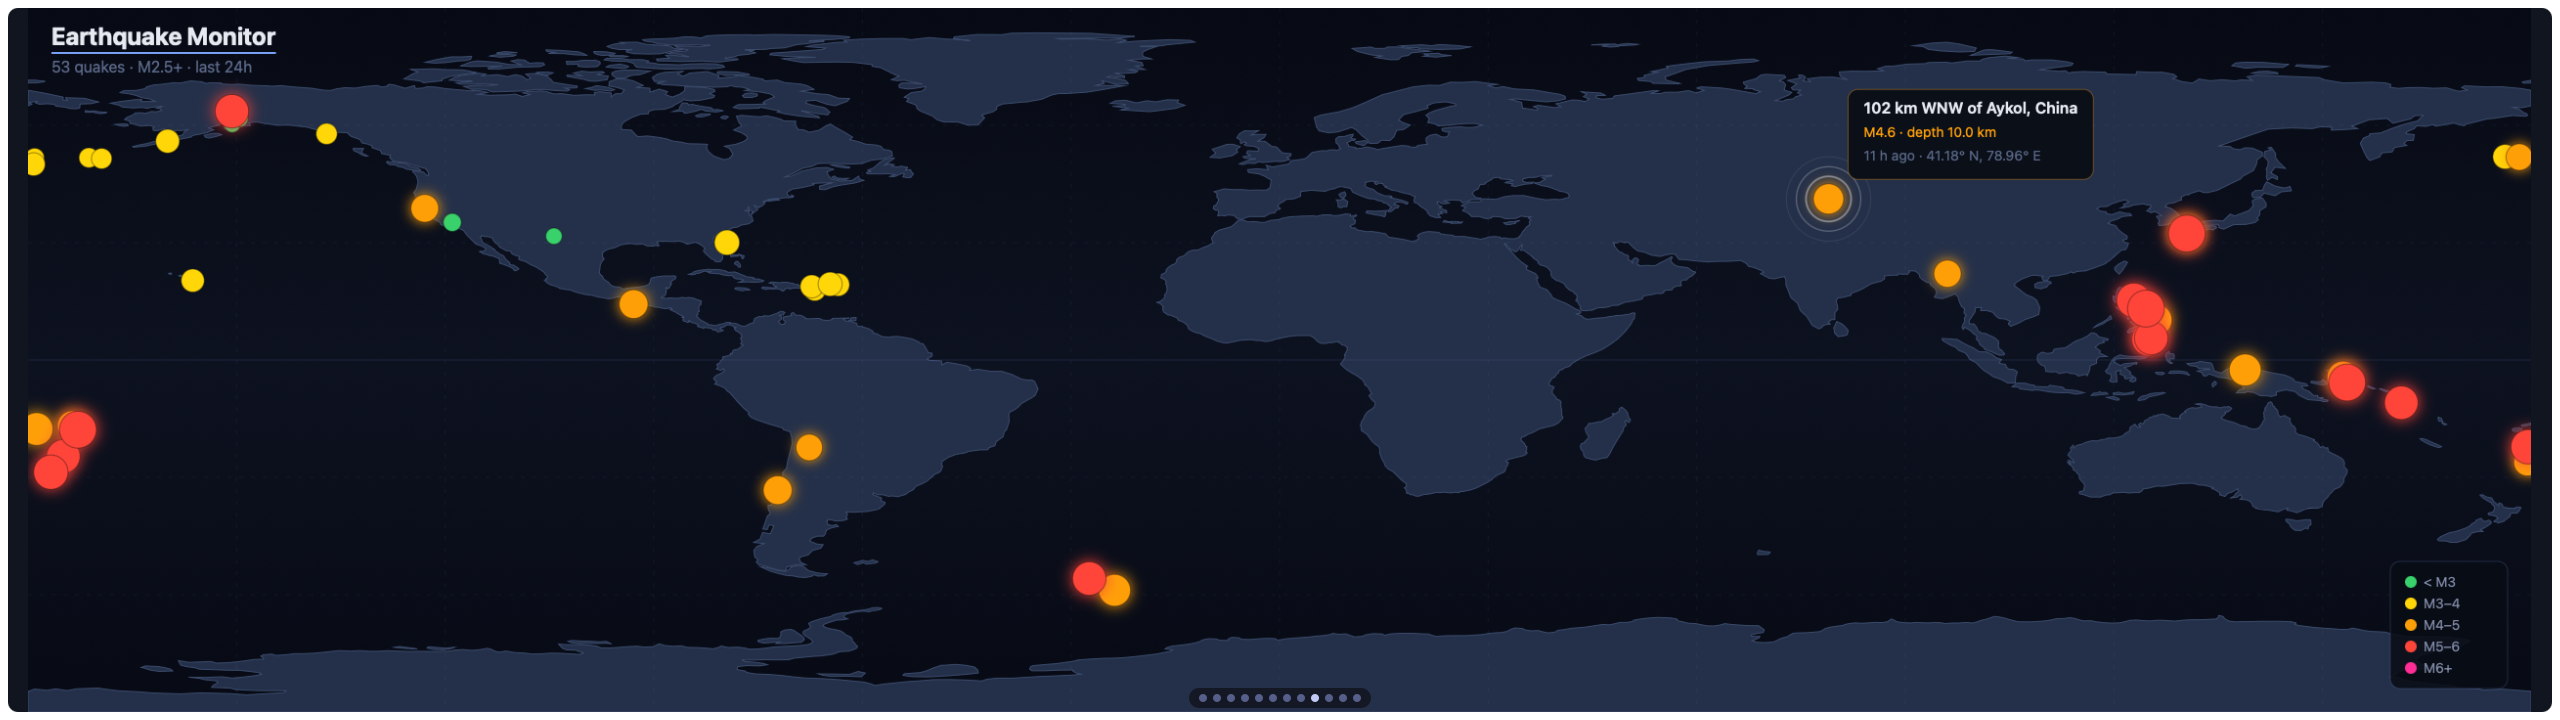
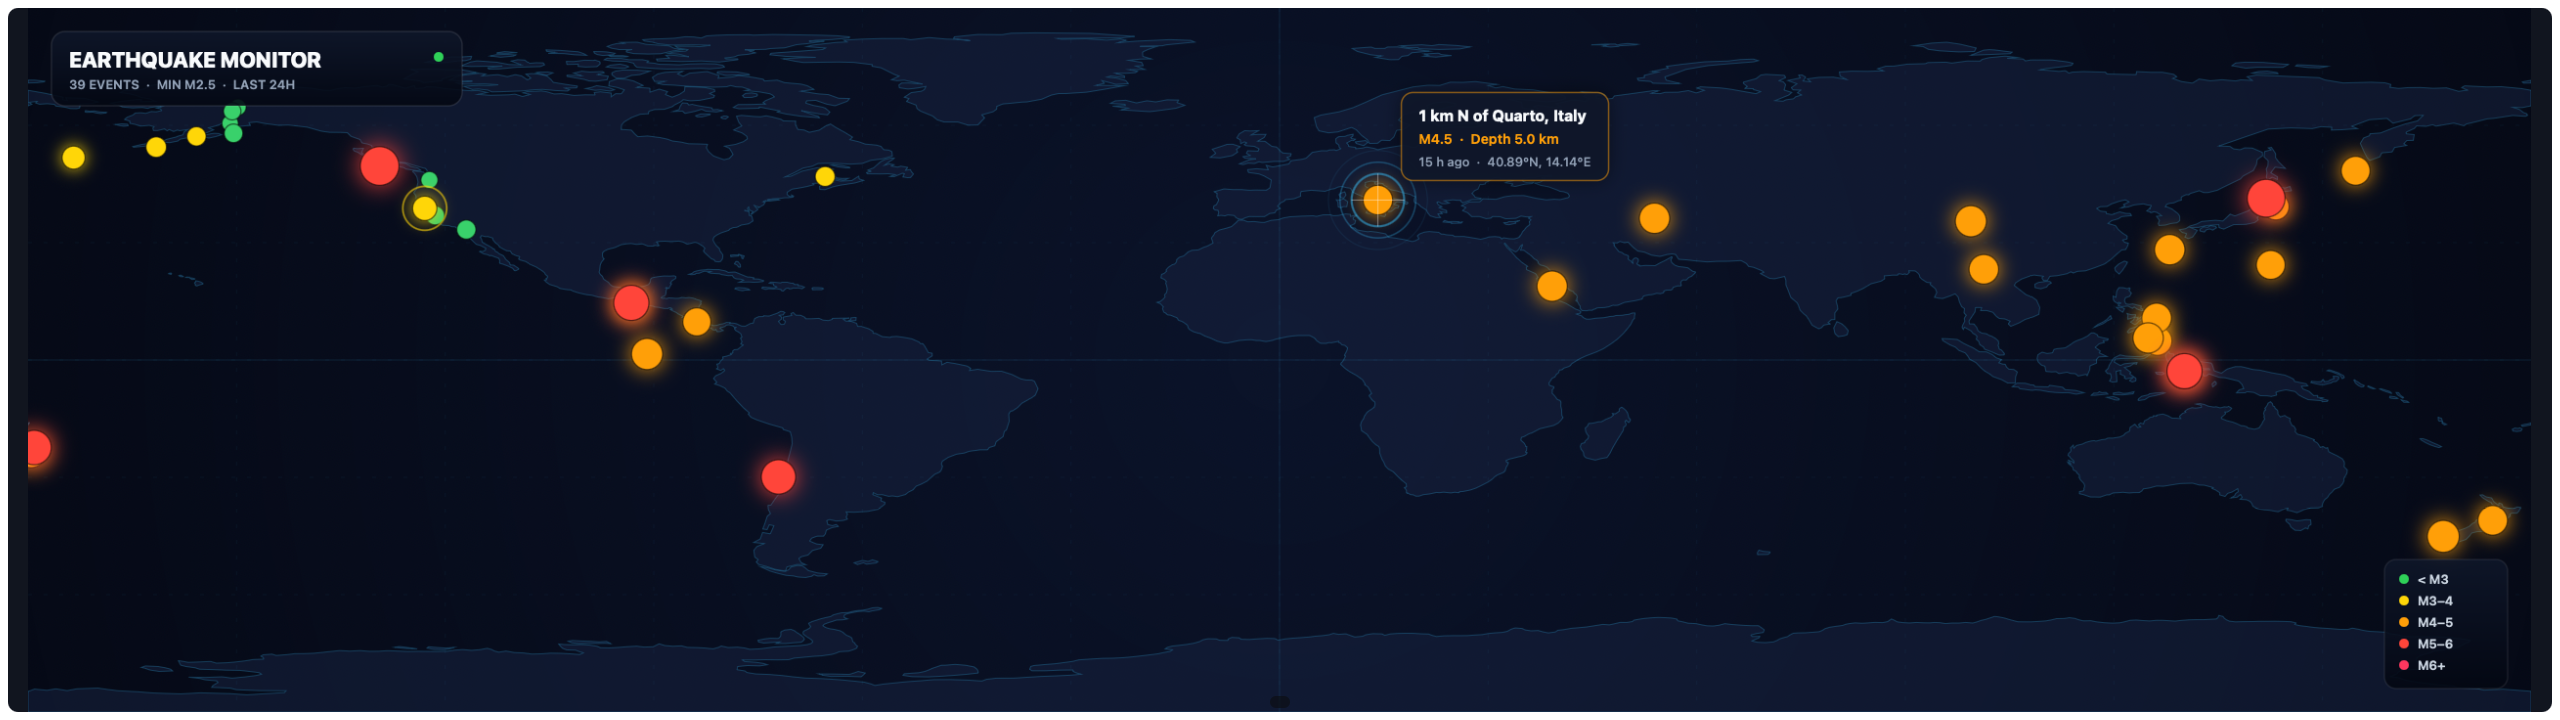
feat: glassmorphism visual refresh for Earthquake Monitor
Radial-gradient ocean, glass-panel title/legend boxes, glow + pulse
on large/recent quakes, radar-ring + crosshair overlay and upgraded
info panel on tap. quakes.js/land.js untouched.

diff --git a/com.vardek.earthquake/index.html b/com.vardek.earthquake/index.html
@@ -3,8 +3,14 @@
 <head>
 <meta charset="utf-8">
 <style>
-  html, body { margin: 0; height: 100%; overflow: hidden; background: transparent; }
-  #map { display: block; width: 100vw; height: 100vh; }
+  html, body {
+    margin: 0;
+    height: 100%;
+    overflow: hidden;
+    background: #030712;
+    font-family: -apple-system, BlinkMacSystemFont, 'SF Pro Display', 'Segoe UI', Roboto, sans-serif;
+  }
+  #map { display: block; width: 100vw; height: 100vh; cursor: crosshair; }
 </style>
 </head>
 <body>
@@ -26,27 +32,45 @@
   let selected = null;
 
   const LEGEND_BANDS = [
-    { label: "< M3", color: "#3ad16b" },
+    { label: "< M3", color: "#30d158" },
     { label: "M3–4", color: "#ffd60a" },
     { label: "M4–5", color: "#ff9f0a" },
     { label: "M5–6", color: "#ff453a" },
-    { label: "M6+",  color: "#ff2d95" },
+    { label: "M6+",  color: "#ff375f" },
   ];
 
+  function hexToRgb(hex) {
+    const n = parseInt(hex.slice(1), 16);
+    return ((n >> 16) & 255) + "," + ((n >> 8) & 255) + "," + (n & 255);
+  }
+
+  function roundRect(x, y, w, h, r) {
+    const radius = Math.min(r, w / 2, h / 2);
+    ctx.beginPath();
+    ctx.moveTo(x + radius, y);
+    ctx.arcTo(x + w, y, x + w, y + h, radius);
+    ctx.arcTo(x + w, y + h, x, y + h, radius);
+    ctx.arcTo(x, y + h, x, y, radius);
+    ctx.arcTo(x, y, x + w, y, radius);
+    ctx.closePath();
+  }
+
   function drawOcean() {
-    const grad = ctx.createLinearGradient(0, 0, 0, H);
-    grad.addColorStop(0, "#070a14");
-    grad.addColorStop(0.5, "#0d1220");
-    grad.addColorStop(1, "#070a14");
+    const grad = ctx.createRadialGradient(W / 2, H / 2, 50, W / 2, H / 2, W / 1.2);
+    grad.addColorStop(0, "#0b1329");
+    grad.addColorStop(0.6, "#060a17");
+    grad.addColorStop(1, "#02040a");
     ctx.fillStyle = grad;
     ctx.fillRect(0, 0, W, H);
   }
 
   function drawLand() {
     if (!cfg.showLand || !Array.isArray(globalThis.LAND)) return;
-    ctx.fillStyle = "#243049";
-    ctx.strokeStyle = "#3a4a6b";
+
+    ctx.fillStyle = "rgba(22, 33, 62, 0.55)";
+    ctx.strokeStyle = "rgba(56, 189, 248, 0.25)";
     ctx.lineWidth = 1;
+
     for (const ring of globalThis.LAND) {
       ctx.beginPath();
       ring.forEach(([lon, lat], i) => {
@@ -59,17 +83,12 @@
     }
   }
 
-  function hexToRgb(hex) {
-    const n = parseInt(hex.slice(1), 16);
-    return (n >> 16) + "," + ((n >> 8) & 255) + "," + (n & 255);
-  }
-
   function drawGraticule() {
-    ctx.strokeStyle = "rgba(122,162,247,0.07)";
+    ctx.strokeStyle = "rgba(56, 189, 248, 0.05)";
     ctx.lineWidth = 1;
-    ctx.setLineDash([4, 8]);
+    ctx.setLineDash([4, 12]);
+
     for (let lat = -60; lat <= 60; lat += 30) {
-      if (lat === 0) continue;
       const y = (90 - lat) / 180 * H;
       ctx.beginPath(); ctx.moveTo(0, y); ctx.lineTo(W, y); ctx.stroke();
     }
@@ -78,8 +97,11 @@
       ctx.beginPath(); ctx.moveTo(x, 0); ctx.lineTo(x, H); ctx.stroke();
     }
     ctx.setLineDash([]);
-    ctx.strokeStyle = "rgba(122,162,247,0.12)";
+
+    // Prime meridian & Equator subtle highlight
+    ctx.strokeStyle = "rgba(56, 189, 248, 0.12)";
     ctx.beginPath(); ctx.moveTo(0, H / 2); ctx.lineTo(W, H / 2); ctx.stroke();
+    ctx.beginPath(); ctx.moveTo(W / 2, 0); ctx.lineTo(W / 2, H); ctx.stroke();
   }
 
   function drawQuakes() {
@@ -92,9 +114,10 @@
       const r = magRadius(q.mag);
       const color = magColor(q.mag);
 
-      if (q.mag >= 4) {
+      // Glowing aura for higher magnitude quakes
+      if (q.mag >= 3.5) {
         ctx.shadowColor = color;
-        ctx.shadowBlur = Math.min(22, q.mag * 3);
+        ctx.shadowBlur = Math.min(28, q.mag * 4.5);
       }
 
       ctx.beginPath();
@@ -104,97 +127,126 @@
       ctx.shadowBlur = 0;
       ctx.shadowColor = "transparent";
 
-      ctx.strokeStyle = "rgba(0,0,0,0.4)";
-      ctx.lineWidth = 1;
+      ctx.strokeStyle = "rgba(0,0,0,0.6)";
+      ctx.lineWidth = 1.2;
       ctx.stroke();
 
+      // Pulsing pulse animation for recent quakes (< 1h)
       if (q.timeMs && (now - q.timeMs) < 3600000) {
-        const pulse = 0.5 + 0.5 * Math.sin(t * 3 + q.timeMs * 0.001);
+        const pulse = 0.5 + 0.5 * Math.sin(t * 4 + q.timeMs * 0.001);
         const rgb = hexToRgb(color);
         ctx.beginPath();
-        ctx.arc(p.x, p.y, r + 3 + pulse * 4, 0, 2 * Math.PI);
-        ctx.strokeStyle = "rgba(" + rgb + "," + (0.15 + 0.35 * pulse) + ")";
-        ctx.lineWidth = 1.5;
+        ctx.arc(p.x, p.y, r + 4 + pulse * 6, 0, 2 * Math.PI);
+        ctx.strokeStyle = "rgba(" + rgb + "," + (0.2 + 0.4 * pulse) + ")";
+        ctx.lineWidth = 1.8;
         ctx.stroke();
       }
     }
 
+    // Selected Quake Radar Target Overlay
     if (selected) {
       const p = project(selected.lon, selected.lat, W, H);
       const r = magRadius(selected.mag);
+
       for (let ring = 0; ring < 3; ring++) {
-        const phase = ((t * 0.7 + ring * 0.33) % 1);
-        const ringR = r + 4 + phase * 30;
-        const alpha = (1 - phase) * 0.45;
+        const phase = ((t * 0.8 + ring * 0.33) % 1);
+        const ringR = r + 6 + phase * 36;
+        const alpha = (1 - phase) * 0.6;
         ctx.beginPath();
         ctx.arc(p.x, p.y, ringR, 0, 2 * Math.PI);
-        ctx.strokeStyle = "rgba(255,255,255," + alpha + ")";
-        ctx.lineWidth = Math.max(0.5, 2 - phase * 1.5);
+        ctx.strokeStyle = "rgba(56, 189, 248, " + alpha + ")";
+        ctx.lineWidth = Math.max(0.8, 2.5 - phase * 2);
         ctx.stroke();
       }
+
+      // Crosshair lines on selected quake
+      ctx.strokeStyle = "rgba(255, 255, 255, 0.4)";
+      ctx.lineWidth = 1;
+      const len = r + 12;
+      ctx.beginPath(); ctx.moveTo(p.x - len, p.y); ctx.lineTo(p.x + len, p.y); ctx.stroke();
+      ctx.beginPath(); ctx.moveTo(p.x, p.y - len); ctx.lineTo(p.x, p.y + len); ctx.stroke();
     }
   }
 
   function drawTitle() {
-    ctx.font = "bold 25px -apple-system, 'Helvetica Neue', sans-serif";
+    const boxX = 24, boxY = 24, boxW = 420, boxH = 76;
+
+    // Glass panel container
+    const grad = ctx.createLinearGradient(boxX, boxY, boxX, boxY + boxH);
+    grad.addColorStop(0, "rgba(15, 23, 42, 0.85)");
+    grad.addColorStop(1, "rgba(3, 7, 18, 0.90)");
+
+    ctx.fillStyle = grad;
+    roundRect(boxX, boxY, boxW, boxH, 14);
+    ctx.fill();
+    ctx.strokeStyle = "rgba(255, 255, 255, 0.1)";
+    ctx.lineWidth = 1.5;
+    roundRect(boxX, boxY, boxW, boxH, 14);
+    ctx.stroke();
+
     ctx.textAlign = "left";
-    ctx.textBaseline = "alphabetic";
+    ctx.textBaseline = "top";
+
     if (errorMsg && quakes.length === 0) {
-      ctx.fillStyle = "#8089a6";
-      ctx.fillText("Earthquake Monitor — " + errorMsg, 24, 38);
+      ctx.font = "700 20px -apple-system, BlinkMacSystemFont, sans-serif";
+      ctx.fillStyle = "#94a3b8";
+      ctx.fillText("SEISMIC MONITOR — " + errorMsg, boxX + 18, boxY + 26);
       return;
     }
-    ctx.fillStyle = "#e6e9ef";
-    ctx.fillText("Earthquake Monitor", 24, 38);
-    ctx.strokeStyle = "#7aa2f7";
-    ctx.lineWidth = 2;
-    const tw = ctx.measureText("Earthquake Monitor").width;
-    ctx.beginPath(); ctx.moveTo(24, 46); ctx.lineTo(24 + tw, 46); ctx.stroke();
 
-    ctx.font = "16px -apple-system, 'Helvetica Neue', sans-serif";
-    ctx.fillStyle = "#5a6888";
-    const sub = quakes.length + " quakes · M" + cfg.minMagnitude + "+ · last " + cfg.window;
-    ctx.fillText(sub, 24, 66);
+    // Title Header
+    ctx.font = "800 22px -apple-system, BlinkMacSystemFont, 'SF Pro Display', sans-serif";
+    ctx.fillStyle = "#f8fafc";
+    ctx.fillText("EARTHQUAKE MONITOR", boxX + 18, boxY + 16);
+
+    // Live Indicator Dot
+    ctx.beginPath();
+    ctx.arc(boxX + boxW - 24, boxY + 26, 5, 0, 2 * Math.PI);
+    ctx.fillStyle = "#30d158";
+    ctx.fill();
+
+    // Subtitle Stats
+    ctx.font = "600 13px -apple-system, BlinkMacSystemFont, sans-serif";
+    ctx.fillStyle = "#94a3b8";
+    const sub = `${quakes.length} EVENTS  ·  MIN M${cfg.minMagnitude}  ·  LAST ${cfg.window.toUpperCase()}`;
+    ctx.fillText(sub, boxX + 18, boxY + 46);
+
     if (errorMsg) {
       ctx.fillStyle = "#ff453a";
-      ctx.fillText(errorMsg, 24 + ctx.measureText(sub).width + 16, 66);
+      ctx.fillText(" • " + errorMsg, boxX + 18 + ctx.measureText(sub).width, boxY + 46);
     }
   }
 
   function drawMagLegend() {
     const pad = 14, rowH = 22;
-    const boxW = 120, boxH = pad * 2 + LEGEND_BANDS.length * rowH - (rowH - 14);
+    const boxW = 126, boxH = pad * 2 + LEGEND_BANDS.length * rowH - 6;
     const x0 = W - boxW - 24, y0 = H - boxH - 24;
 
-    ctx.fillStyle = "rgba(8,12,20,0.85)";
-    roundRect(x0, y0, boxW, boxH, 10);
+    const grad = ctx.createLinearGradient(x0, y0, x0, y0 + boxH);
+    grad.addColorStop(0, "rgba(15, 23, 42, 0.85)");
+    grad.addColorStop(1, "rgba(3, 7, 18, 0.90)");
+
+    ctx.fillStyle = grad;
+    roundRect(x0, y0, boxW, boxH, 12);
     ctx.fill();
-    ctx.strokeStyle = "rgba(122,162,247,0.20)";
-    ctx.lineWidth = 1;
-    roundRect(x0, y0, boxW, boxH, 10);
+    ctx.strokeStyle = "rgba(255, 255, 255, 0.08)";
+    ctx.lineWidth = 1.5;
+    roundRect(x0, y0, boxW, boxH, 12);
     ctx.stroke();
 
-    ctx.font = "14px -apple-system, 'Helvetica Neue', sans-serif";
+    ctx.font = "600 13px -apple-system, BlinkMacSystemFont, sans-serif";
     LEGEND_BANDS.forEach((b, i) => {
       const y = y0 + pad + i * rowH;
       ctx.beginPath();
-      ctx.arc(x0 + pad + 7, y + 7, 6, 0, 2 * Math.PI);
+      ctx.arc(x0 + pad + 6, y + 6, 5, 0, 2 * Math.PI);
       ctx.fillStyle = b.color;
       ctx.fill();
-      ctx.fillStyle = "#8089a6";
-      ctx.textAlign = "left";
-      ctx.fillText(b.label, x0 + pad + 20, y + 12);
-    });
-  }
 
-  function roundRect(x, y, w, h, r) {
-    ctx.beginPath();
-    ctx.moveTo(x + r, y);
-    ctx.arcTo(x + w, y, x + w, y + h, r);
-    ctx.arcTo(x + w, y + h, x, y + h, r);
-    ctx.arcTo(x, y + h, x, y, r);
-    ctx.arcTo(x, y, x + w, y, r);
-    ctx.closePath();
+      ctx.fillStyle = "#cbd5e1";
+      ctx.textAlign = "left";
+      ctx.textBaseline = "middle";
+      ctx.fillText(b.label, x0 + pad + 20, y + 6);
+    });
   }
 
   function relativeTime(timeMs) {
@@ -215,37 +267,43 @@
     const lonDir = q.lon >= 0 ? "E" : "W";
 
     const lines = [
-      { text: q.place || "Unknown location", font: "600 16px", color: "#e6e9ef" },
-      { text: "M" + q.mag.toFixed(1) + (typeof q.depth === "number" ? " · depth " + q.depth.toFixed(1) + " km" : ""), font: "14px", color: bandColor },
-      { text: relativeTime(q.timeMs) + " · " + Math.abs(q.lat).toFixed(2) + "° " + latDir + ", " + Math.abs(q.lon).toFixed(2) + "° " + lonDir, font: "14px", color: "#5a6888" },
+      { text: q.place || "Unknown Location", font: "700 16px", color: "#f8fafc" },
+      { text: "M" + q.mag.toFixed(1) + (typeof q.depth === "number" ? "  ·  Depth " + q.depth.toFixed(1) + " km" : ""), font: "600 14px", color: bandColor },
+      { text: relativeTime(q.timeMs) + "  ·  " + Math.abs(q.lat).toFixed(2) + "°" + latDir + ", " + Math.abs(q.lon).toFixed(2) + "°" + lonDir, font: "500 13px", color: "#94a3b8" },
     ];
 
-    ctx.font = "600 16px -apple-system, 'Helvetica Neue', sans-serif";
+    ctx.font = "700 16px -apple-system, BlinkMacSystemFont, sans-serif";
     let maxW = 0;
     for (const l of lines) {
-      ctx.font = l.font + " -apple-system, 'Helvetica Neue', sans-serif";
+      ctx.font = l.font + " -apple-system, BlinkMacSystemFont, sans-serif";
       maxW = Math.max(maxW, ctx.measureText(l.text).width);
     }
 
-    const pw = maxW + 32, ph = lines.length * 24 + 20;
-    let x = p.x + 20, y = p.y - ph - 20;
-    x = Math.max(8, Math.min(W - pw - 8, x));
-    y = Math.max(8, Math.min(H - ph - 8, y));
+    const pw = maxW + 36, ph = lines.length * 24 + 18;
+    let x = p.x + 24, y = p.y - ph - 20;
+    x = Math.max(12, Math.min(W - pw - 12, x));
+    y = Math.max(12, Math.min(H - ph - 12, y));
 
-    ctx.fillStyle = "rgba(8,12,20,0.92)";
-    roundRect(x, y, pw, ph, 10);
+    ctx.fillStyle = "rgba(15, 23, 42, 0.92)";
+    ctx.shadowColor = "rgba(0, 0, 0, 0.5)";
+    ctx.shadowBlur = 18;
+    roundRect(x, y, pw, ph, 12);
     ctx.fill();
+    ctx.shadowBlur = 0;
+    ctx.shadowColor = "transparent";
+
     const rgb = hexToRgb(bandColor);
-    ctx.strokeStyle = "rgba(" + rgb + ",0.35)";
-    ctx.lineWidth = 1;
-    roundRect(x, y, pw, ph, 10);
+    ctx.strokeStyle = "rgba(" + rgb + ",0.5)";
+    ctx.lineWidth = 1.5;
+    roundRect(x, y, pw, ph, 12);
     ctx.stroke();
 
     ctx.textAlign = "left";
+    ctx.textBaseline = "top";
     lines.forEach((l, i) => {
-      ctx.font = l.font + " -apple-system, 'Helvetica Neue', sans-serif";
+      ctx.font = l.font + " -apple-system, BlinkMacSystemFont, sans-serif";
       ctx.fillStyle = l.color;
-      ctx.fillText(l.text, x + 16, y + 24 + i * 24);
+      ctx.fillText(l.text, x + 18, y + 14 + i * 24);
     });
   }
 
@@ -267,7 +325,7 @@
     for (const q of quakes) {
       const p = project(q.lon, q.lat, W, H);
       const dist = Math.hypot(p.x - cx, p.y - cy);
-      const hit = magRadius(q.mag) + 8;
+      const hit = magRadius(q.mag) + 10;
       if (dist <= hit && dist < bestDist) {
         best = q;
         bestDist = dist;
